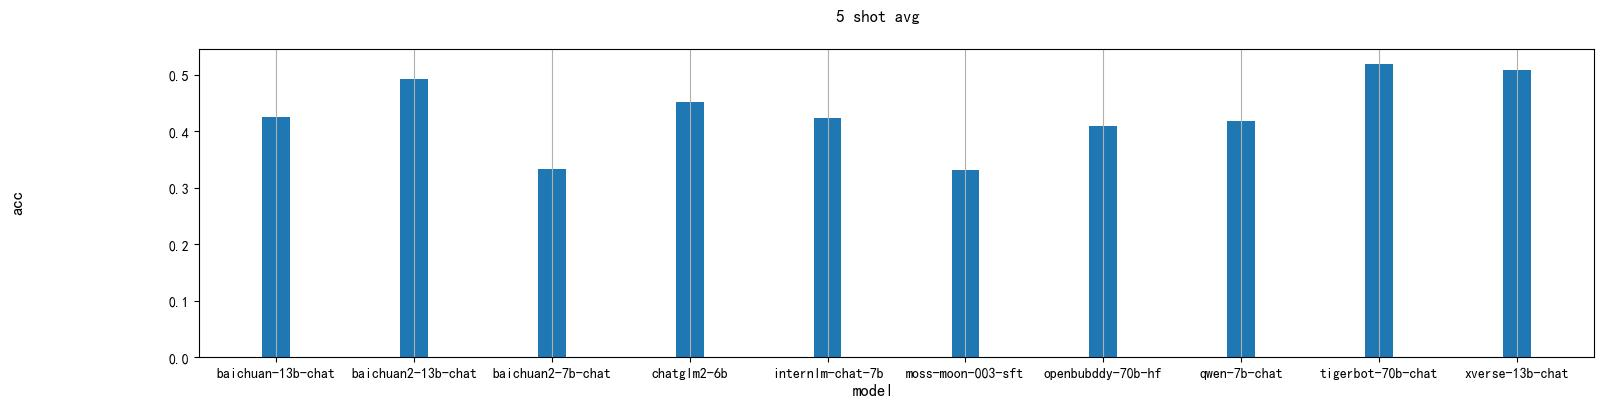
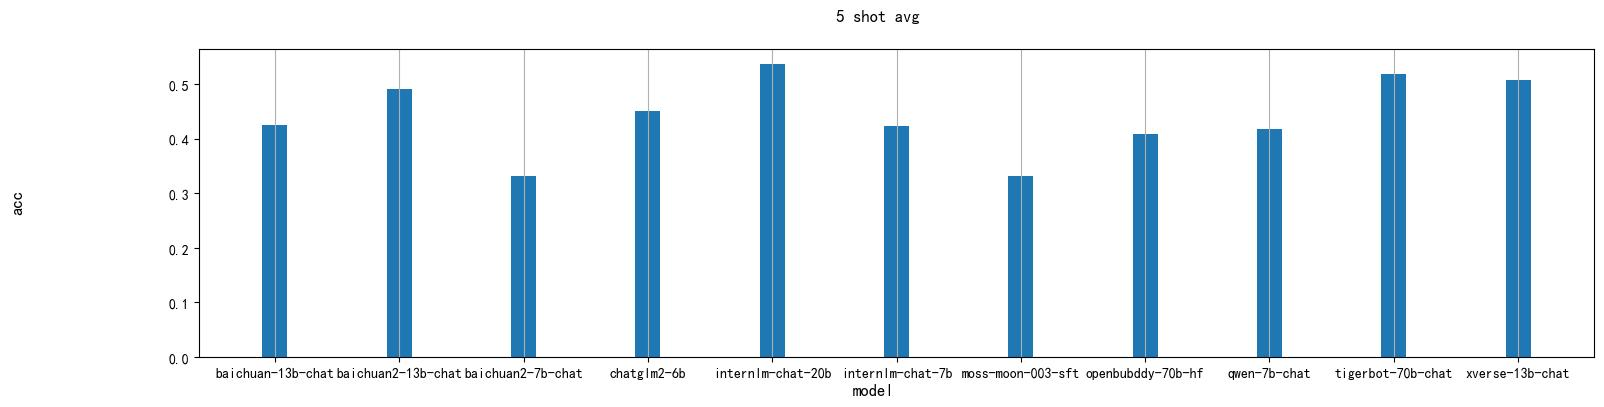
internlm-chat-20b

diff --git a/auto_eval/model_result/draw_ceval.py b/auto_eval/model_result/draw_ceval.py
@@ -35,7 +35,7 @@ plt.rcParams["font.sans-serif"] = ['SimHei']
 plt.rcParams["axes.unicode_minus"] = False
 
 colors = [
-    'r','g','b','black','yellow','grey', 'orange','silver','purple','brown','cameo','bisque'
+    'r','g','b','black','yellow','grey', 'orange','silver','purple','brown','beige','golden'
 ]
 styles = [
     'dashed','solid','dotted','dashdot','dashdot','solid','solid','dashdot','solid','solid','solid',

diff --git a/auto_eval/config.py b/auto_eval/config.py
@@ -17,6 +17,7 @@ OPENAI_API_BASE = "http://192.168.2.180:8081/v1"
 # MODEL = "langchain/chat_model/baichuan2-7b-chat-int4"
 # MODEL = "langchain/chat_model/baichuan2-13b-chat-int4"
 # MODEL = "langchain/chat_model/tigerbot-70b-chat"
+MODEL = "langchain/chat_model/internlm-chat-20b"
 MODEL = "langchain/chat_model/chatglm2-6b-int4"
 
 
